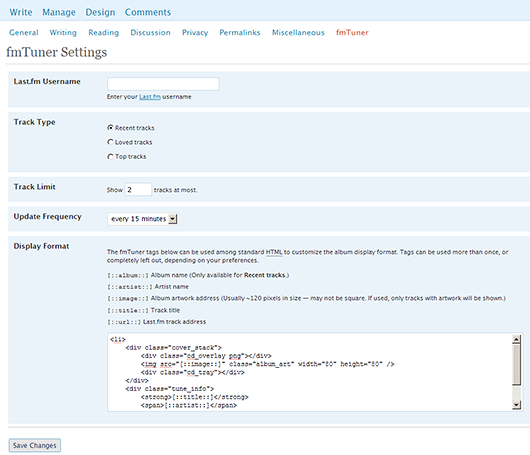
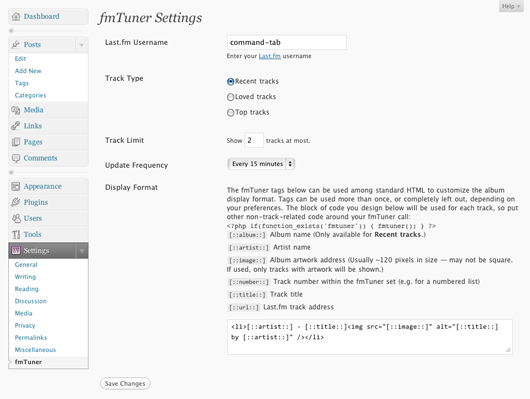
Adding 1.0.6

diff --git a/fmtuner.php b/fmtuner.php
@@ -2,7 +2,7 @@
 	
 	/*
 	Plugin Name: fmTuner
-	Version: 1.0.5
+	Version: 1.0.6
 	Plugin URI: http://www.command-tab.com
 	Description: Displays recent, top, or loved <a href="http://www.last.fm/home" target="_blank">Last.fm</a> tracks in a <a href="options-general.php?page=fmtuner/fmtuner.php">customizable format</a>.
 	Author: Collin Allen
@@ -43,12 +43,15 @@
 			$iCacheTime = get_option('fmtuner_update_frequency');
 			$sCachePath = get_option('fmtuner_cachepath');
 			$iTrackLimit = get_option('fmtuner_track_limit');
+			$iTrackLimitWithBuffer = $iTrackLimit + 15; // Grab extra in case some albums don't have artwork
 			$sBaseUrl = 'http://ws.audioscrobbler.com/2.0/?method=';
 			$sMethod = get_option('fmtuner_track_type');
 			$sUsername = get_option('fmtuner_username');
 			$sApiKey = 'ff0eaca3b7e2660755d6c652af7b0489';
-			$sApiUrl = "{$sBaseUrl}{$sMethod}&user={$sUsername}&api_key={$sApiKey}";
 			$sDisplayFormat = get_option('fmtuner_display_format');
+			$sApiUrl = "{$sBaseUrl}{$sMethod}&user={$sUsername}&api_key={$sApiKey}&limit={$iTrackLimitWithBuffer}";
+			
+			// Check if we're using images or not
 			$bUsingImages = false;
 			if (strpos($sDisplayFormat, '[::image::]') === false)
 			{
@@ -219,7 +222,7 @@
 	{
 		add_option('fmtuner_cachepath', dirname(__FILE__).'/fmtuner_cache.xml'); // Default cache location
 		add_option('fmtuner_username', ''); // Default to ''
-		add_option('fmtuner_track_type', 'user.getlovedtracks'); // Default to 'Loved tracks'
+		add_option('fmtuner_track_type', 'user.getrecenttracks'); // Default to 'Recent Tracks'
 		add_option('fmtuner_update_frequency', 3600); // Default to 'Every hour'
 		add_option('fmtuner_track_limit', 2); // Default to max of 2 tracks
 		add_option('fmtuner_display_format', '<li>[::artist::] - [::title::]<img src="[::image::]" alt="[::title::] by [::artist::]" /></li>'); // Default format
@@ -260,7 +263,7 @@
 	
 	
 	
-	// Hook into WordPress to call |setup_fmtuner_options| when the admin menu is loaded
+	// Hook into WordPress to call setup_fmtuner_options() when the admin menu is loaded
 	add_action('admin_menu', 'setup_fmtuner_options');
 	
 	
@@ -277,8 +280,10 @@
 			$sBaseUrl = 'http://ws.audioscrobbler.com/2.0/?method=';
 			$sMethod = get_option('fmtuner_track_type');
 			$sUsername = get_option('fmtuner_username');
+			$iTrackLimit = get_option('fmtuner_track_limit');
+			$iTrackLimitWithBuffer = $iTrackLimit + 15; // Grab extra in case some albums don't have artwork
 			$sApiKey = 'ff0eaca3b7e2660755d6c652af7b0489';
-			$sApiUrl = "{$sBaseUrl}{$sMethod}&user={$sUsername}&api_key={$sApiKey}";
+			$sApiUrl = "{$sBaseUrl}{$sMethod}&user={$sUsername}&api_key={$sApiKey}&limit={$iTrackLimitWithBuffer}";
 			if ($sUsername != '')
 			{
 				$sTracksXml = fmtuner_fetch($sApiUrl);
@@ -356,7 +361,8 @@
 								</th>
 								<td>
 									<p>
-										<label for="fmtuner_display_format">The fmTuner tags below can be used among standard <abbr title="HyperText Markup Language">HTML</abbr> to customize the album display format.  Tags can be used more than once, or completely left out, depending on your preferences.
+										<label for="fmtuner_display_format">The fmTuner tags below can be used among standard <abbr title="HyperText Markup Language">HTML</abbr> to customize the album display format.  Tags can be used more than once, or completely left out, depending on your preferences.  The block of code you design below will be used for each track, so put other non-track-related code around your fmTuner call:
+											<pre>&lt;?php if(function_exists('fmtuner')) { fmtuner(); } ?&gt;</pre>
 											<ul style="margin: 0px; padding: 0px; list-style: none;">
 												<li><code>[::album::]</code> Album name (Only available for <strong>Recent tracks</strong>.)</li>
 												<li><code>[::artist::]</code> Artist name</li>
@@ -385,7 +391,5 @@
 			
 		<?php
 	}
-	
-
 	
 ?>
